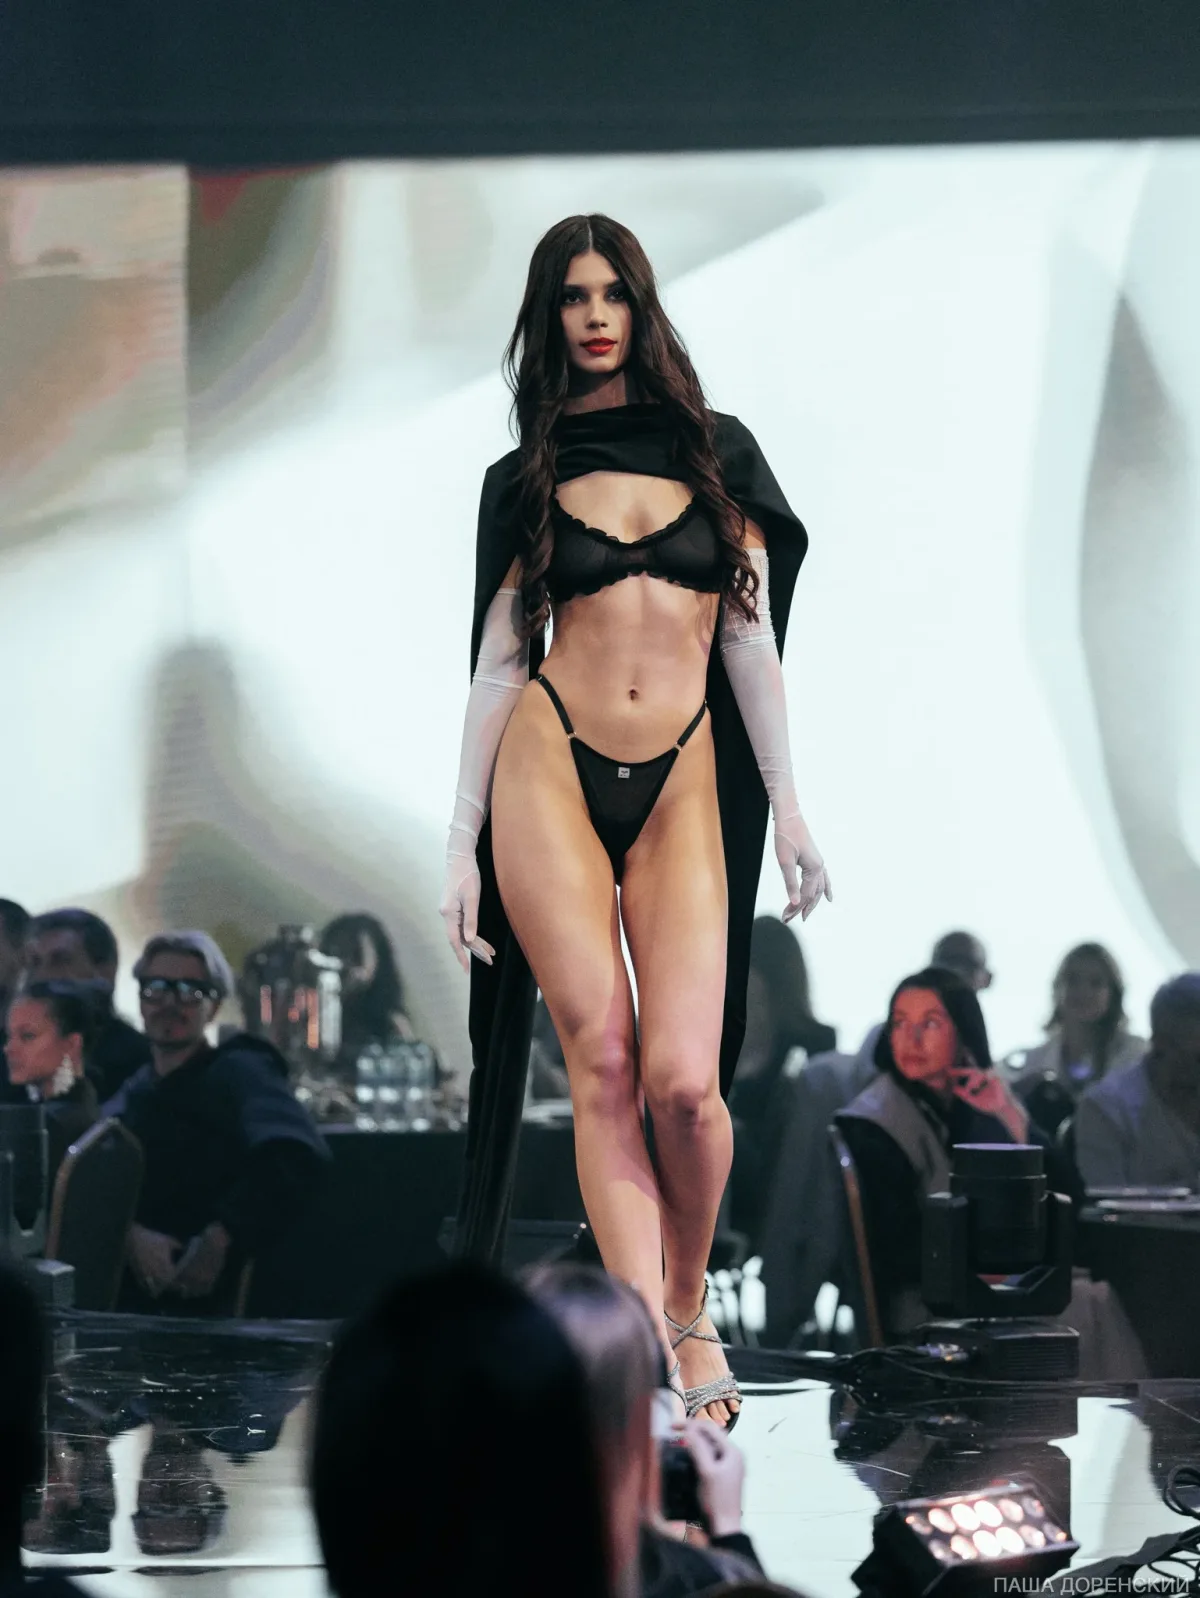
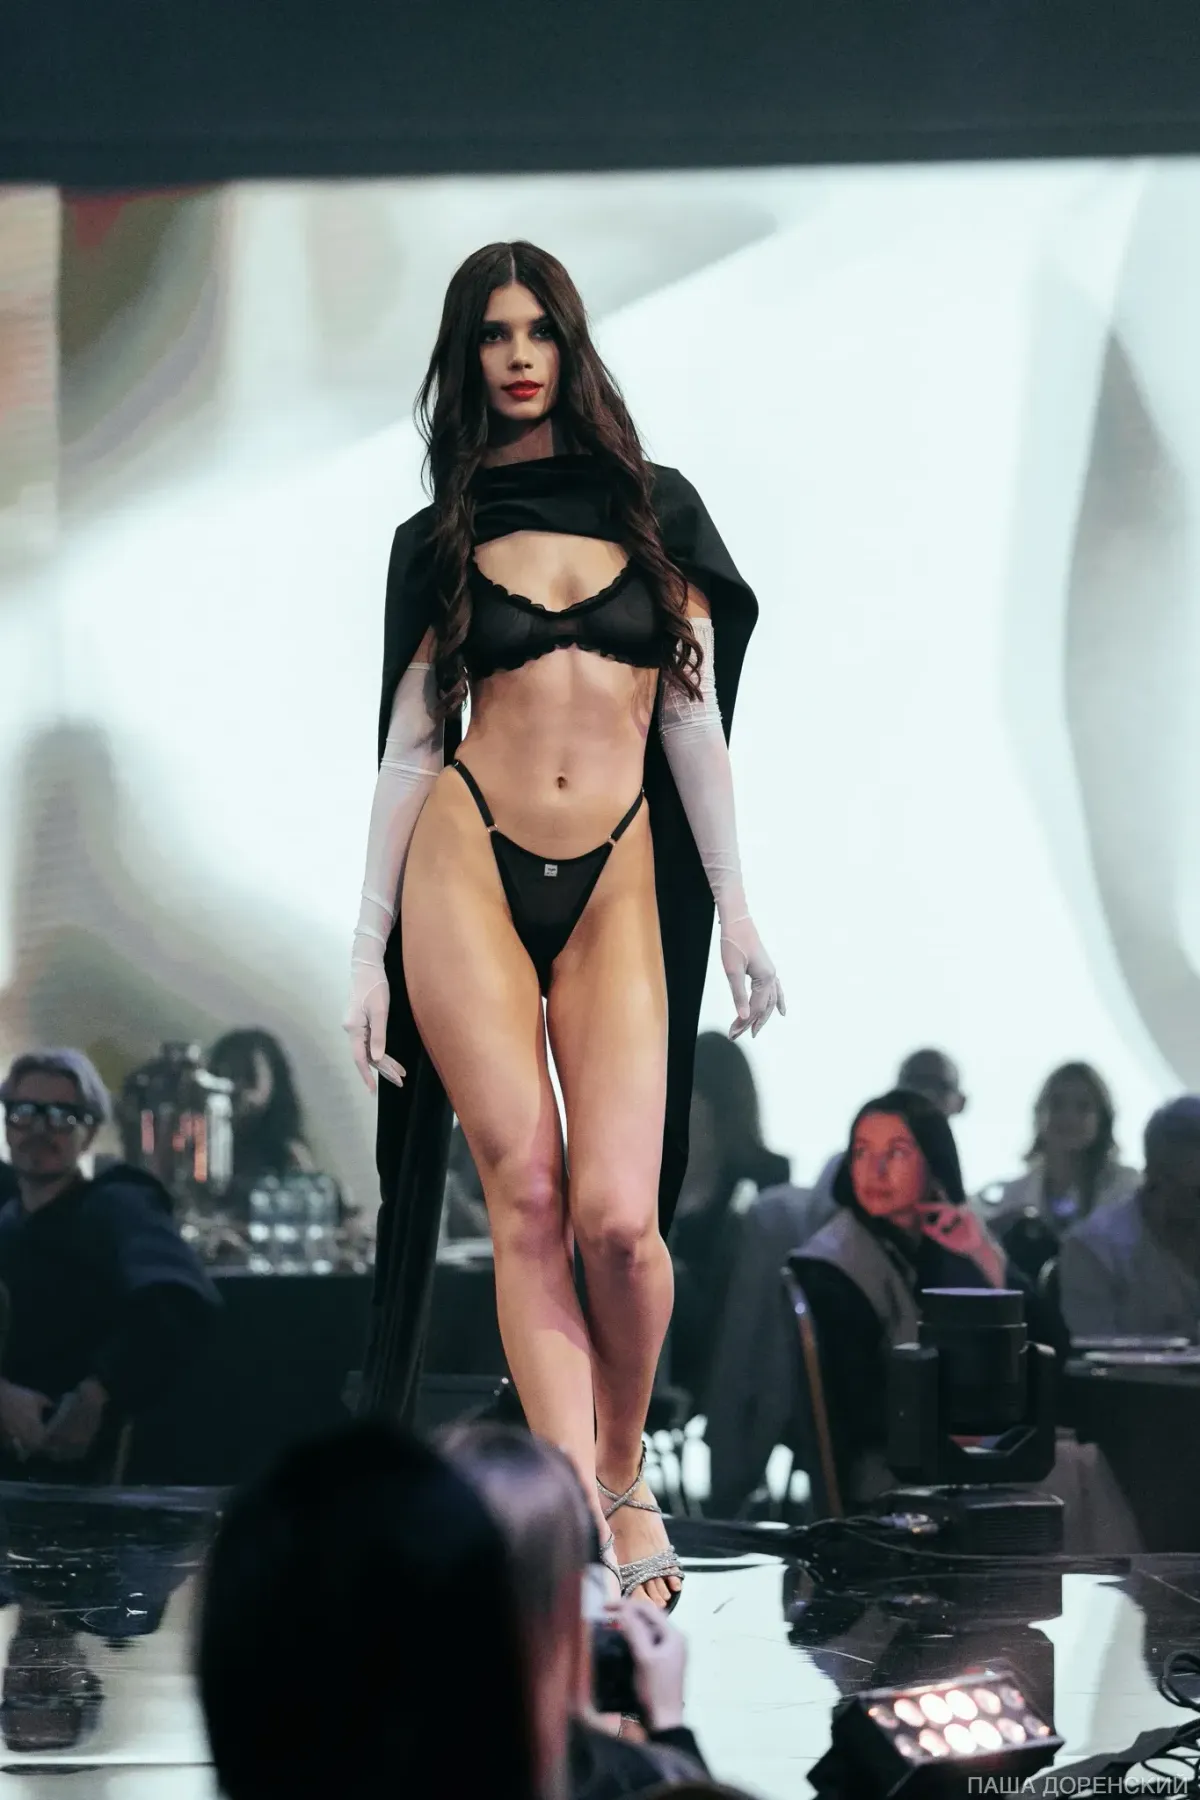
Give one archive photograph the phone screen
The carousel frames were 43% of an iPhone's height and the chapter read as
thumbnails. The client-approved reference does the opposite in its own
archive: a single frame at the full column width, `height: 560px` against an
844px screen — two thirds of it. Take the frames to 88vw and 2:3, which is
61% of the height on every phone from 360 to 430.

88 and not 100 because the arrows are hidden on touch, so the 43–52px of the
next frame is the only thing telling a reader the rail scrolls. The basis is
capped by height as well, which binds only where the viewport is wide but
short — a small tablet in portrait, any phone in landscape — and leaves every
phone in portrait width-bound.

`sizes` said 50vw against a 62vw frame and now has to say 88vw: the browser
budgets resolution from that value and not from the rendered box, so it was
under-asking by a quarter and only escaped a soft image because the ladder's
next rung happened to be close enough. At 88vw it would not have. It carries
the same min() as the rule, which was measured to resolve correctly and to
degrade by over-asking where it does not.

Regenerate all ten frames as 640/900/1200 from the originals, which are not in
the repository root — they were removed in d861719 and recovered here from
`d861719^:public/media/{n}.webp`. Two measurements set the ladder:

- 1200w is the ceiling, and it is below the source's 1365. 1365w costs 87%
  more bytes for 14% more pixels — at full source width there is no downscale
[…]

diff --git a/components/GuestCarousel.tsx b/components/GuestCarousel.tsx
@@ -4,7 +4,9 @@ import { useCallback, useEffect, useRef } from "react";
 
 export type GuestCarouselItem = {
   img: string;
-  widths: [number, number];
+  /* Ascending, and every entry must exist in public/media. The largest is the
+     src fallback; the browser picks the rest against `sizes`. */
+  widths: number[];
   label: string;
   alt: string;
 };
@@ -116,9 +118,23 @@ export default function GuestCarousel({ guests }: GuestCarouselProps) {
               data-carousel-slide={index + 1}
             >
               <img
-                src={`/media/${guest.img}-${guest.widths[1]}.webp`}
-                srcSet={`/media/${guest.img}-${guest.widths[0]}.webp ${guest.widths[0]}w, /media/${guest.img}-${guest.widths[1]}.webp ${guest.widths[1]}w`}
-                sizes="(min-width: 768px) 33vw, 50vw"
+                src={`/media/${guest.img}-${guest.widths[guest.widths.length - 1]}.webp`}
+                srcSet={guest.widths
+                  .map((w) => `/media/${guest.img}-${w}.webp ${w}w`)
+                  .join(", ")}
+                /* Must track .st2-guest's flex-basis, min() and all. The
+                   browser budgets resolution from this value, not from the
+                   rendered box: when it said 50vw against a 62vw frame it
+                   under-asked by a quarter and only escaped a soft image
+                   because the ladder's next rung happened to be close enough.
+
+                   `vh` rather than the rule's `svh`, on purpose. The preload
+                   scanner reads this before layout, and the two differ only
+                   while the URL bar is showing — where vh is the larger of
+                   the pair, so the miss is an over-ask. Where min() is not
+                   understood the whole entry is dropped and the fallback is
+                   100vw, which over-asks as well. */
+                sizes="(min-width: 768px) 33vw, min(88vw, 41.33vh)"
                 alt={copy === 1 ? guest.alt : ""}
                 loading="lazy"
                 draggable={false}

diff --git a/app/status-team-page-two.css b/app/status-team-page-two.css
@@ -515,7 +515,9 @@
   inline-size: 100%;
   block-size: 100%;
   max-inline-size: none;
-  /* Portrait sources under a 4/5 crop: bias upward so heads stay in frame. */
+  /* Every source is cropped to 2:3 when it is generated, so cover has nothing
+     left to take off and the position never comes into play. Both stay as the
+     guard for a frame that arrives at some other proportion. */
   object-fit: cover;
   object-position: 50% 32%;
 }
@@ -563,11 +565,21 @@
 }
 
 @media (max-width: 767px) {
-  /* The phone composition intentionally shows one full portrait and a clear
-     portion of the next, matching the larger editorial rail in the reference.
-     Two photographs remain visible while each frame reads materially bigger. */
+  /* One photograph per screen with the next one showing, which is what the
+     client-approved reference does in its own archive: a single frame at the
+     full column width, around two thirds of the screen's height. At 62vw the
+     frame was 43% of an iPhone's height and the chapter read as thumbnails.
+
+     The peek is not decoration. The arrows below are hidden on touch, so the
+     strip of the next frame is the only thing telling a reader there is more
+     than one photograph here — which is why this is 88vw and not 100vw.
+
+     The height cap only binds on viewports that are wide but short: a small
+     tablet in portrait, or any phone in landscape, where 88vw would be taller
+     than the screen. Every real phone in portrait is width-bound. */
   .st-page-two .st2-guest {
-    flex-basis: 62vw;
+    flex-basis: 88vw;
+    flex-basis: min(88vw, calc(62svh * 2 / 3));
   }
 
   /* Touch owns phone navigation; desktop controls remain unchanged. */

diff --git a/components/StatusTeamScene.tsx b/components/StatusTeamScene.tsx
@@ -26,7 +26,7 @@ const GUEST_ORDER = [1, 2, 3, 5, 4, 7, 6, 9, 8, 10];
 
 const GUESTS: GuestCarouselItem[] = GUEST_ORDER.map((n, index) => ({
   img: `show-${n}`,
-  widths: [700, 1200],
+  widths: [640, 900, 1200],
   label: `Гость ${String(index + 1).padStart(2, "0")}`,
   alt: "Кадр из предыдущего показа",
 }));

diff --git a/public/media/MEDIA_INDEX.md b/public/media/MEDIA_INDEX.md
@@ -11,6 +11,7 @@ Two distinct bodies of material exist and must never be mixed:
 | `hero-*` | `header_16_9.png`, `header_9_16.png` | **ПУЛЬС КОНТИНЕНТА** (new show) | The opening frame, in two crops |
 | `campaign-*`, `poster-*`, `detail-*`, `runway-*` | `1–9.png`, `style1–7.png` | **ПУЛЬС КОНТИНЕНТА** (new show, Africa) | Desire, atmosphere, art direction |
 | `archive-*`, `show-reel*` | `pre1–4.PNG`, `video.mp4` | **СЛАВЯНСКИЙ ВЗГЛЯД** (previous show) | Proof — real photography, real audience |
+| `show-1…10` | see below — originals are in git history, not the root | **СЛАВЯНСКИЙ ВЗГЛЯД** (previous show) | The archive carousel |
 
 The `archive-*` stills and the reel are **real event photography/footage**. Photo credit visible in
 source: **Паша Доренский**. The campaign set is concept/key-art imagery for the upcoming show.
@@ -126,6 +127,31 @@ contact sheet. Held in reserve.
 - **Priority** — 1
 - **Notes** — Original is 24 MB; the served file is 5.7 MB. Never ship the original to the browser.
 
+### show-1 … show-10 · the archive carousel
+- **Type / orientation** — images, portrait, served `show-{n}-{640,900,1200}.webp` at a normalised
+  **2:3** (640×960, 900×1350, 1200×1800)
+- **Content** — ten frames from СЛАВЯНСКИЙ ВЗГЛЯД: runway walks, looks, the audience
+- **Mood** — real event photography, unfiltered
+- **Overlay** — ✗ none. The carousel carries no type over the frames
+- **Best use** — the archive rail in `#statusteam`, one frame per screen on a phone
+- **Priority** — 1
+- **Originals** — **not in the repository root.** They were removed in `d861719`; recover one with
+  `git show d861719^:public/media/{n}.webp`. They are 1365×2048 (2:3) for 2, 5, 7–10 and
+  1538×2048 (3:4) for 1, 3, 4, 6
+- **Notes** — Two things decide the sizes, and both are measured:
+  - The 3:4 originals (1, 3, 4, 6) are **cropped to 2:3 at generation, and the whole 173px comes
+    off the LEFT.** `object-fit: cover` was already taking the same 173px in the browser, but
+    centred — and the photographer's credit is set flush to the right edge, so a centred cut left
+    «ПАША ДОРЕН». Any crop on the right truncates the credit; take it off the left. This was
+    invisible while the frames were 43% of a phone's height and is not now.
+  - **1200w is the ceiling, and it is not the source's ceiling.** 1365w costs 87% more bytes for
+    14% more pixels (202 KB against 108 KB a frame): at 1365 there is no downscale left to damp
+    the film grain and the encoder pays for all of it. Ten frames weigh 0.38 / 0.66 / 1.02 MB
+    across the three rungs.
+  - `sizes` in `GuestCarousel.tsx` must track `.st2-guest`'s `flex-basis`. The browser budgets
+    resolution from `sizes`, not from the rendered box, so a stale value silently serves a soft
+    image at the exact width it is most visible.
+
 ### archive-lineup · from `pre2.PNG`
 - **Type / orientation** — image, **landscape** 1600×1202 (1.33) — the only landscape still
 - **Content** — full runway lineup, wings and flower crowns, stage lighting, audience at tables
@@ -164,5 +190,9 @@ contact sheet. Held in reserve.
 3. `campaign-palms-gold` (green) and `campaign-silver-portrait` (teal) are the two colour outliers.
    Use each exactly once, far apart.
 4. Real archive photography is never filtered. `archive-backstage-bw` is already monochrome.
-5. Portrait sources dominate (17 of 20). Any full-bleed landscape band must come from
+   The credit «ПАША ДОРЕНСКИЙ» sits flush to the right edge of every carousel frame: crop from the
+   left, never the right.
+5. Portrait sources dominate. Any full-bleed landscape band must come from
    `archive-lineup` or the reel.
+6. The carousel's frames are all 2:3 **as files**. Keep it that way: a rail that mixes proportions
+   either crops blind or steps in height as it scrolls.
